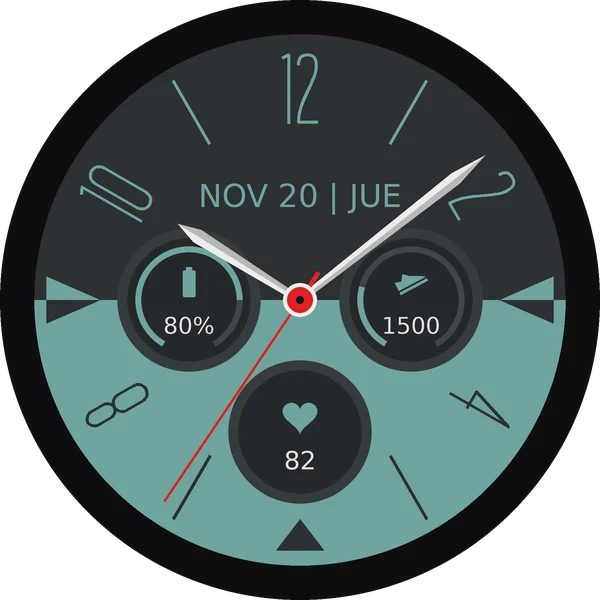
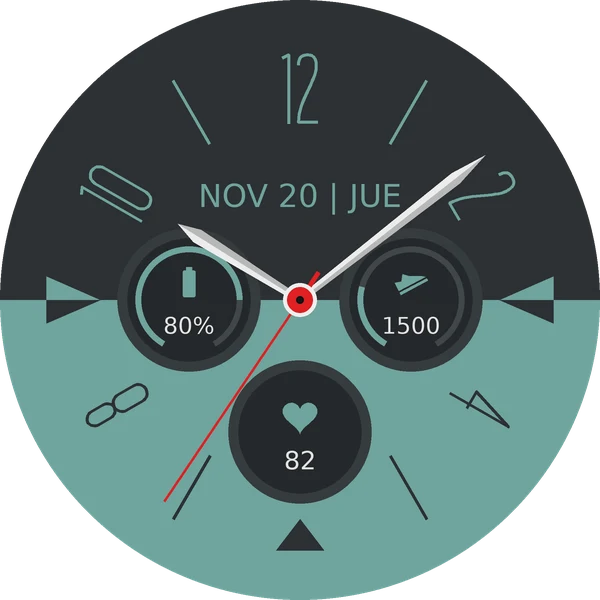
Horizonte: los colores llegan hasta el borde de la pantalla (sin aro negro)
Claude-Session: https://claude.ai/code/session_01RTdv2VrACuR4VFWJLA57hx

Changed region(s): [[0.0, 0.0, 1.0, 1.0]]

diff --git a/android/esferas-de-reloj/horizonte/src/main/java/cl/carlospnauto/esfera/FaceService.kt b/android/esferas-de-reloj/horizonte/src/main/java/cl/carlospnauto/esfera/FaceService.kt
@@ -272,7 +272,7 @@ class HorizonRenderer(
         }
 
         // ===== Fondo en dos colores (arriba oscuro, abajo el tema) =====
-        val R = r * 0.885f
+        val R = r
         fill.color = dark
         canvas.drawCircle(cx, cy, R, fill)
         canvas.save()
@@ -586,7 +586,7 @@ class HorizonRenderer(
     private fun renderPlayer(canvas: Canvas, cx: Float, cy: Float, r: Float, t: ZonedDateTime, theme: Int) {
         fun X(v: Float) = cx + v * r
         fun Y(v: Float) = cy + v * r
-        val R = r * 0.885f
+        val R = r
         fill.color = dark
         canvas.drawCircle(cx, cy, R, fill)
         canvas.save()
